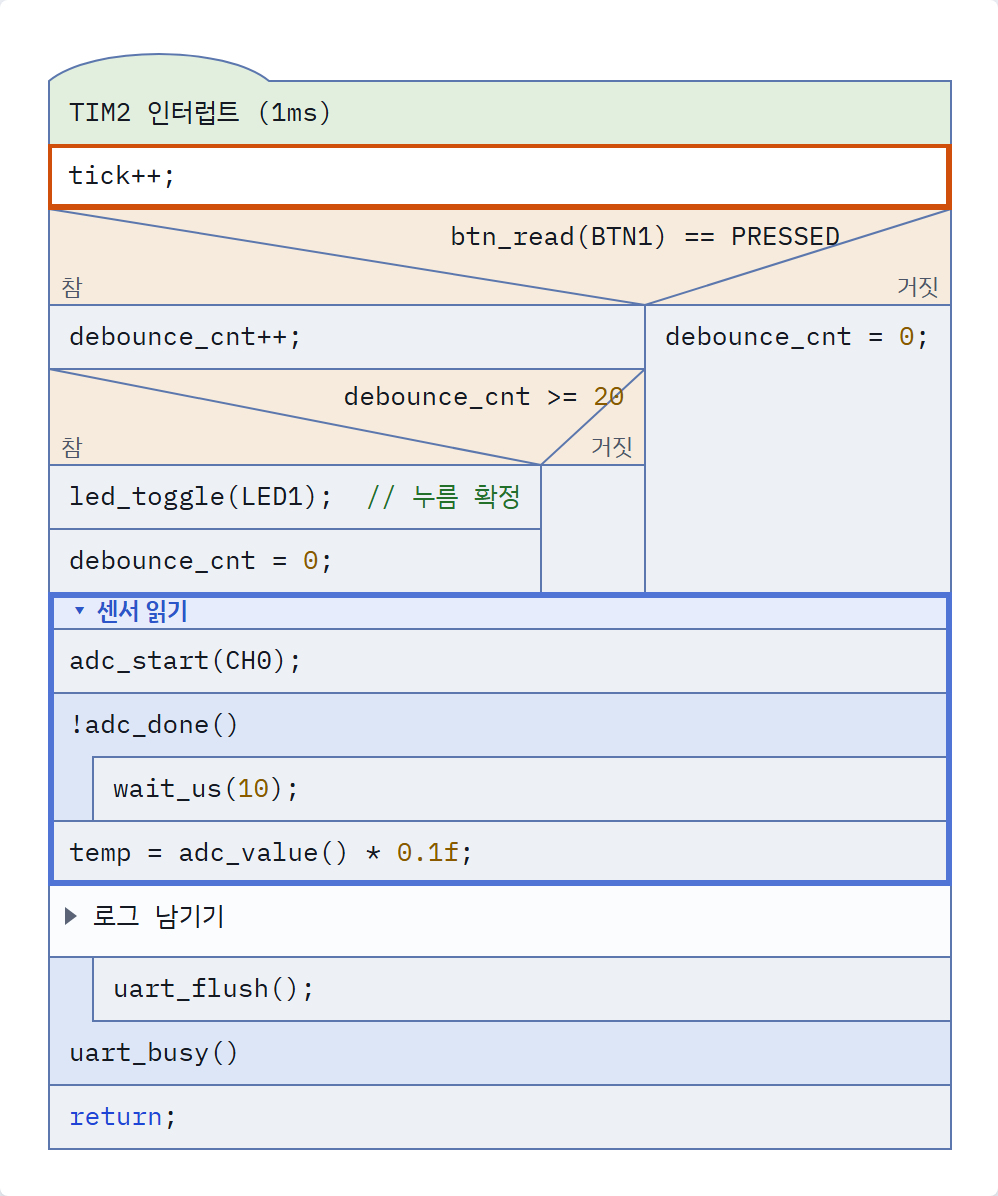
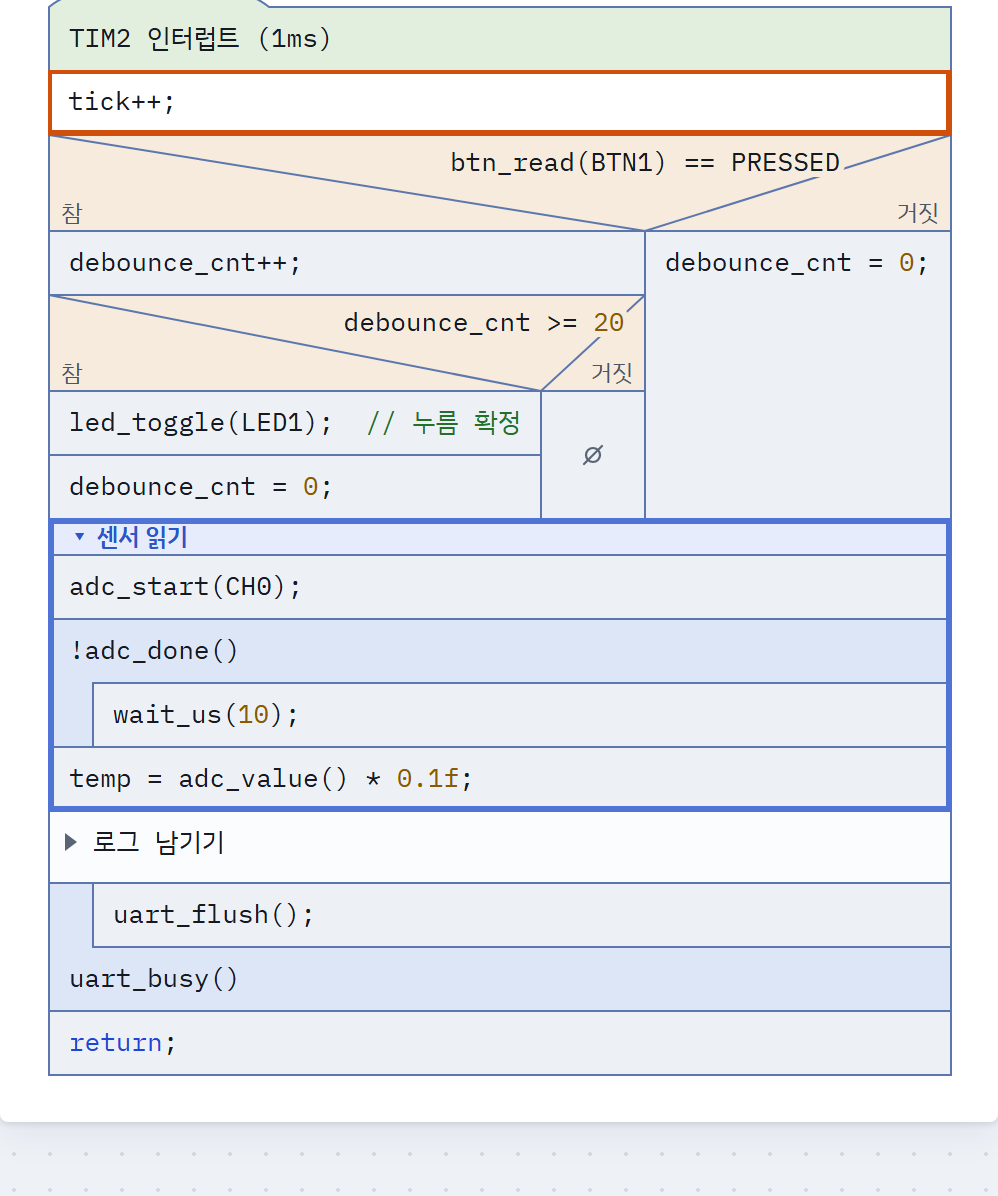
docs 캡처: 시각 디자인 그림을 프로토타입 65번째 판으로 다시 찍음(그 사이 빈 갈래 ∅, 조건 글자 뒤 바탕, Case 갈래 이름 자리 등), 새 그림 넣음(머리 모양 제목처럼, 갈래 이름 선택, 키 힌트, 웹 화면 배치, 커맨드 팔레트), 상태 표에 갈래 이름 선택 · 블록 위 드롭

diff --git a/docs/02-ux-design/02-interaction-rules.md b/docs/02-ux-design/02-interaction-rules.md
@@ -139,6 +139,10 @@ updated: 2026-11-01
 - If와 Case의 갈래 이름은 블록처럼 선택할 수 있다. 마우스로는 갈래 이름을 누른다.
 - 키보드로는 갈래의 첫 블록에서 `↑`를 누르면 그 갈래의 이름을 선택하고, 한 번 더 누르면 If · Case 블록을 선택한다. 내려갈 때(`↓`)는 갈래 이름에 멈추지 않는다. 갈래 이름에서 `←` `→`는 옆 갈래의 이름으로, `↓`는 그 갈래의 첫 블록으로 간다.
 - 갈래 이름을 선택하고 글자 고치기 명령을 쓰면 이름을 고친다. 비우면 If는 "참" · "거짓"으로, Case는 그 갈래의 처음 이름으로 돌아간다.
+![[interaction-branch-label.png|420]]
+
+*Case의 갈래 이름 `CMD_STOP`을 선택한 모습. 프로토타입 65번째 판에서 찍었다(`journal/assets/2026-11-01-docs-shots.mjs`).*
+
 - 갈래 이름을 선택하고 넣기 · 지우기 · 옮기기 명령을 쓰면 갈래에 듣는다(넣기와 지우기는 [[#Case 블록]], 옮기기는 [[#옮기기]]). 갈래 전용 명령(갈래 넣기 · 지우기 키)은 따로 두지 않는다.
 
 ### 여러 블록 선택
@@ -190,6 +194,10 @@ updated: 2026-11-01
 - 목록은 메뉴 · 툴바 · 컨텍스트 메뉴와 같은 명령 목록에서 나온다(→ [[0033-command-list-for-shells|ADR-0033]]). 지금 선택한 것에 듣지 않는 명령은 흐리게 보이고, 실행하면 까닭을 알린다.
 - 최근에 실행한 명령이 위에 온다.
 - Obsidian 플러그인은 따로 창을 두지 않고 Obsidian의 명령 팔레트에 같은 명령을 올린다.
+
+![[web-command-palette.png|480]]
+
+*"감싸"를 친 모습. 시안 M44의 그림이다(제품의 모습은 아직 정하지 않음).*
 
 ### 붙여넣기
 

diff --git a/docs/04-design/06-web.md b/docs/04-design/06-web.md
@@ -107,6 +107,10 @@ updated: 2026-11-01
 └──────────────────────────────────────────────────────────────┘
 ```
 
+![[web-screen-layout.png|683]] ![[web-screen-layout-phone.png|156]]
+
+*노트북 브라우저(1366 × 657)를 절반으로 줄인 그림과 휴대폰(폭 390px). 시안 M44의 그림이다(아이콘과 색은 아직 정하지 않음). 찍는 스크립트 `journal/assets/2026-11-01-docs-shots.mjs`.*
+
 - **메뉴 바:** 파일 · 편집 · 다이어그램 · 보기 · 도움말. 메뉴에는 명령 이름 옆에 키를 적는다. 데스크톱 버전은 운영체제의 메뉴 바에 같은 메뉴를 둔다.
 - **툴바 한 줄:** 파일(새로 · 열기 · 저장 · 내보내기), 되돌리기 · 다시, 잘라내기 · 복사 · 붙이기, **블록 아이콘 여섯**(처리 · If · Case · While · For · Do-While), 감싸기 · 확대. 블록 아이콘은 블록의 모양과 색을 그대로 줄인 그림이다. 쓰는 법 → [[02-interaction-rules#블록 아이콘으로 넣기 · 감싸기]]
 - 메뉴 · 툴바 · 컨텍스트 메뉴는 모두 명령 목록 하나에서 나온다 → [[0033-command-list-for-shells|ADR-0033]]
